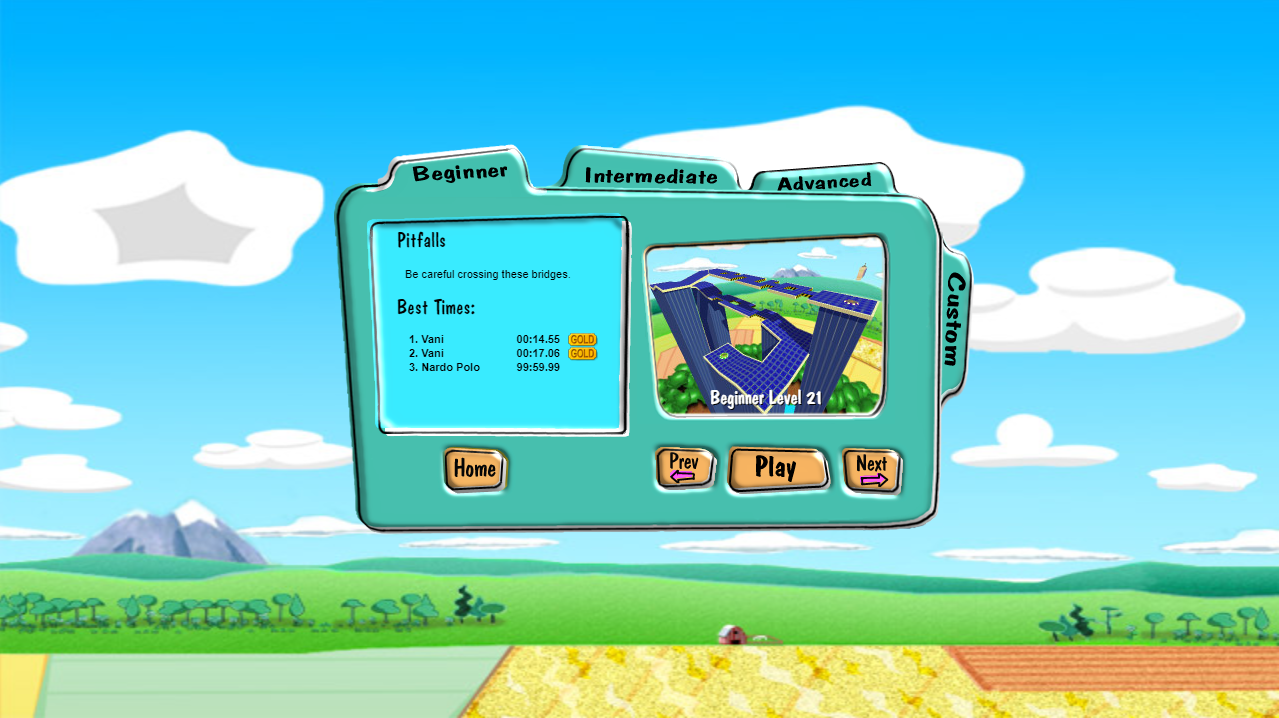
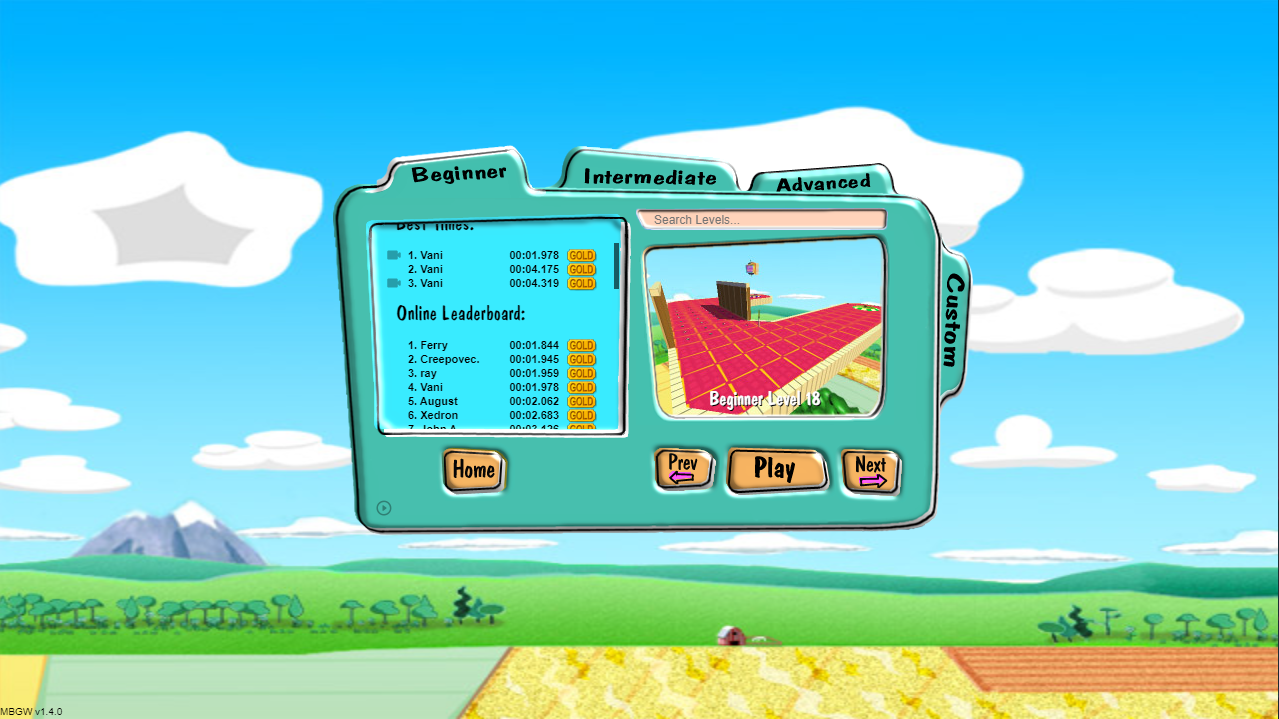
Update README

diff --git a/src/index.html b/src/index.html
@@ -3,8 +3,8 @@
 	<head>
 		<meta charset="utf-8">
 		<title>Marble Blast Gold Web</title>
-		<meta name="description" content="Race your marble to the finish in 100 diverse levels. A full web port of Marble Blast Gold by GarageGames.">
-		<meta name="keywords" content="marble, blast, gold, marbleblast, marbleblastgold, garagegames, torque">
+		<meta name="description" content="Race your marble to the finish in almost 2000 diverse levels. A full web port of Marble Blast Gold by GarageGames.">
+		<meta name="keywords" content="marble, blast, gold, marbleblast, marbleblastgold, garagegames, torque, web, webport, port">
 		<meta name="author" content="Vanilagy">
 
 		<link rel="shortcut icon" href="./assets/img/marble-blast-gold-logo.png">
@@ -96,7 +96,7 @@
 
 		<div id="menu" class="hidden">
 			<img src="./assets/ui/background.jpg" id="background-image">
-			<p id="version">MBGW v1.4.0</p>
+			<p id="version">MBGW v1.4.1</p>
 
 			<div id="home-screen">
 				<img src="./assets/ui/home/homegui.png">

diff --git a/README.md b/README.md
@@ -4,19 +4,23 @@ This project is a complete web port of the 3D platformer game Marble Blast Gold 
 Play it here: https://marbleblast.vani.ga/ (Hoping the link will still work)
 
 ## Features
-In this game, the objective is to roll your marble to the finish pad in the fastest time possible, while avoiding hazards and collecting gems and power-ups. It includes all 100 levels of the original (24 beginner, 24 intermediate, 52 advanced), as well as all gameplay elements, sounds, music and UI/menu elements.
+In this game, the objective is to roll your marble to the finish pad in the fastest time possible, while avoiding hazards and collecting gems and power-ups. It includes all 100 default levels of the original (24 beginner, 24 intermediate, 52 advanced), as well as almost 2,000 community custom levels. It implements all gameplay elements, sounds, music and UI/menu components - additional features include a replay system and online leaderboards.
+
+[View version history](https://github.com/Vanilagy/MarbleBlast/blob/master/version_history.md)
 
 ## Screenshots
 <img src="./screenshots/natural_selection.png" width="640">
 <img src="./screenshots/twisting.png" width="640">
-<img src="./screenshots/slip_n_slide.png" width="640">
+<img src="./screenshots/tube_treasure.png" width="640">
+<img src="./screenshots/avi_training_2.png" width="640">
 <img src="./screenshots/level_select.png" width="640">
+<img src="./screenshots/options.png" width="640">
 
 ## Technical overview
-The game is implemented in TypeScript and utilizes [three.js](https://github.com/mrdoob/three.js/) for rendering and [OimoPhysics](https://github.com/saharan/OimoPhysics) as its physics engine. Its levels and assets weren't rebuilt from scratch; instead, they are read and imported from .dif, .dts and .mis files used internally by the Torque 3D Engine, on which the original game runs. All the game's internal logic was implemented from scratch, however. The physics simulation runs at a rate of 120 Hz and utilizes continuous collision detection - it was tuned to feel as close to the original as possible, but obviously there are still small differences, for example the lack of traplaunching. Resources are lazily loaded over the network when required for levels, making the initial load time of the website relatively short (about 4 MB). The UIs are all implemented in plain HTML and CSS, and simple persistence is provided by localStorage.
+The game is implemented in TypeScript and utilizes a modified version of [three.js](https://github.com/mrdoob/three.js/) for rendering and [OimoPhysics](https://github.com/saharan/OimoPhysics) as its physics engine. Its levels and assets weren't rebuilt from scratch; instead, they are read and imported from .dif, .dts and .mis files used internally by the Torque 3D Engine, on which the original game runs. All the game's internal logic was implemented from scratch, however. The physics simulation runs at a fixed rate of 120 Hz and utilizes continuous collision detection - it was tuned to feel like a Marble Blast game, but there are still differences in the physics, because of which times in this game shouldn't be compared to those in the original. Resources are lazily loaded over the network when required for levels, making the initial load time of the website relatively short (about 4 MB). The UIs are all implemented in plain HTML and CSS, and local persistence for settings, scores and replays is provided by IndexedDB. The game features a state-based replay system which guarantees deterministic playback - replays are compressed using [pako](https://github.com/nodeca/pako) and stored locally. Custom levels are supplied by HiGuy's online [CLA API](https://cla.higuy.me/) and are cached on the server. The backend itself is implemented using PHP and mostly handles resource loading and leaderboard updates.
 
 ## Building
 If you wish to build the game yourself, simply clone the repository, then run `npm install` and `npm run compile`, which will compile the TypeScript code using [rollup](https://rollupjs.org/guide/en/). If you wish to bundle the project, run `npm run bundle`, which uses [Sarcina](https://github.com/Vanilagy/Sarcina).
 
 ## Notes
-The current version only runs on the newest versions of Chromium-based browsers and Firefox. Special thanks to the maintainers of [three.js](https://github.com/mrdoob/three.js/) and [OimoPhysics](https://github.com/saharan/OimoPhysics) for making this project possible! The gameplay itself wasn't my idea at all and I highly recommend you check out GarageGames's original version, as well as the game's community, here: https://marbleblast.com/
+The current version only runs on the newest versions of Chromium-based browsers, Firefox and Safari. Special thanks to the maintainers of [three.js](https://github.com/mrdoob/three.js/), [OimoPhysics](https://github.com/saharan/OimoPhysics), [pako](https://github.com/nodeca/pako) and [jszip](https://github.com/Stuk/jszip) for making this project possible, as well as to [Jeff](https://github.com/JeffProgrammer) and [RandomityGuy](https://github.com/RandomityGuy) for helping me out with parts of the code, and to the entire Marble Blast community for their feedback and support. The gameplay itself wasn't my idea at all and I highly recommend you check out GarageGames's original version, as well as the game's community, here: https://marbleblast.com/
